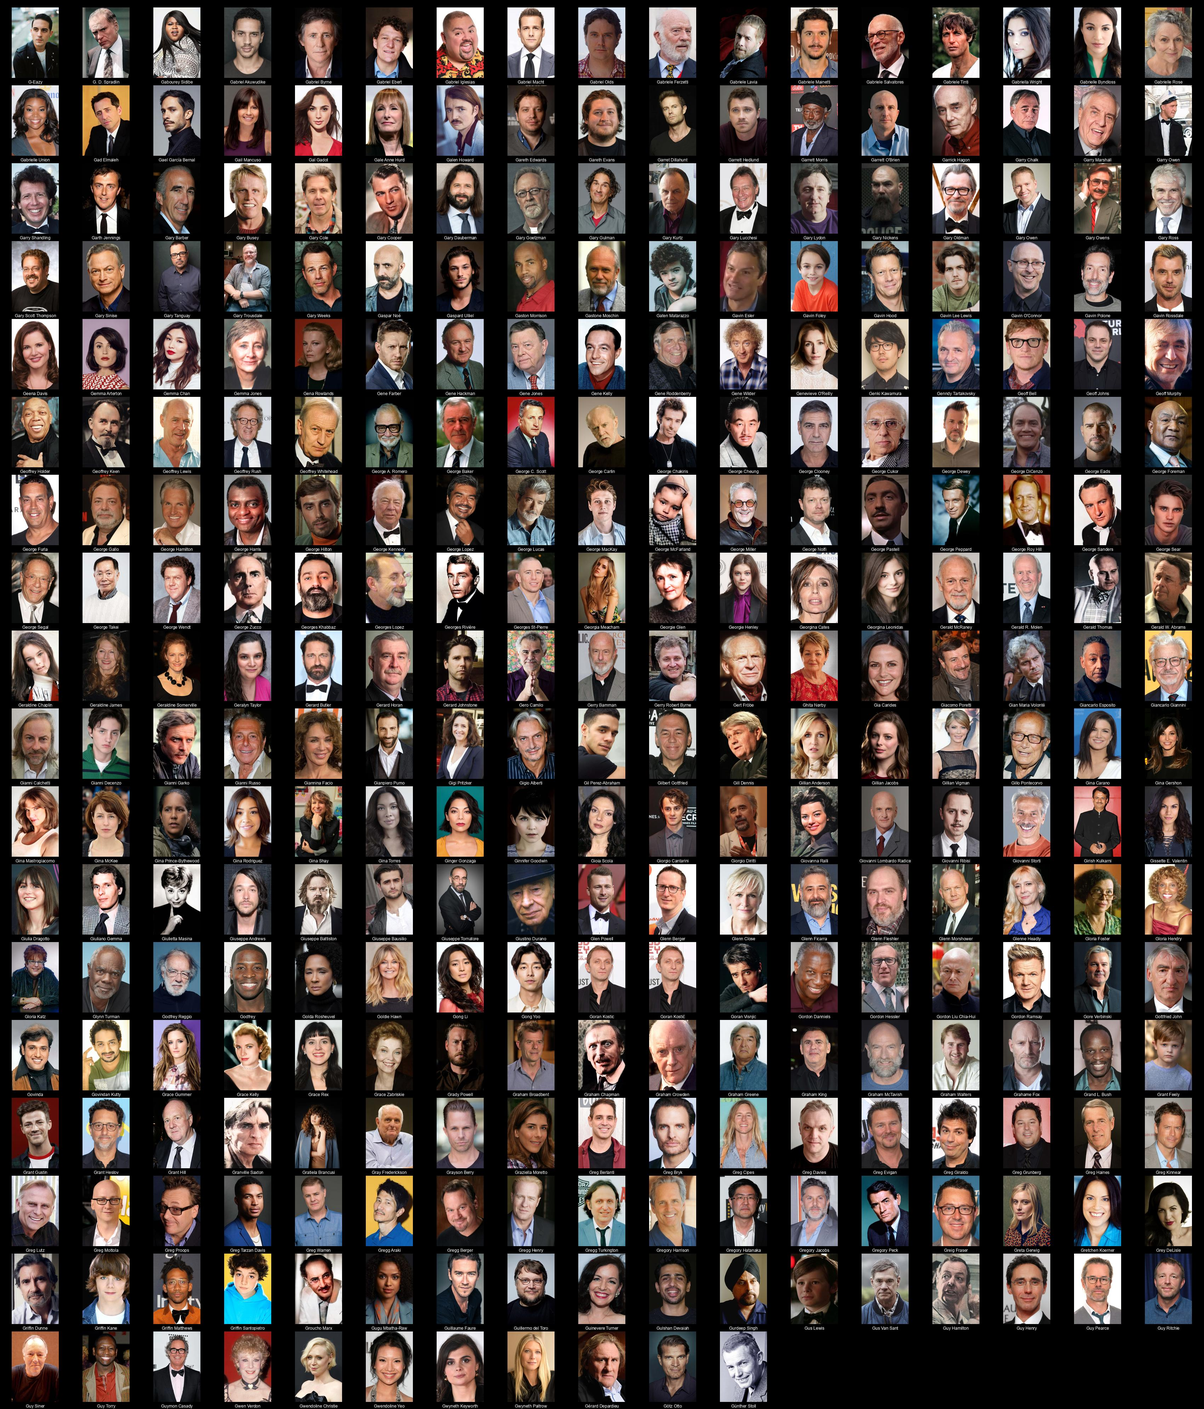
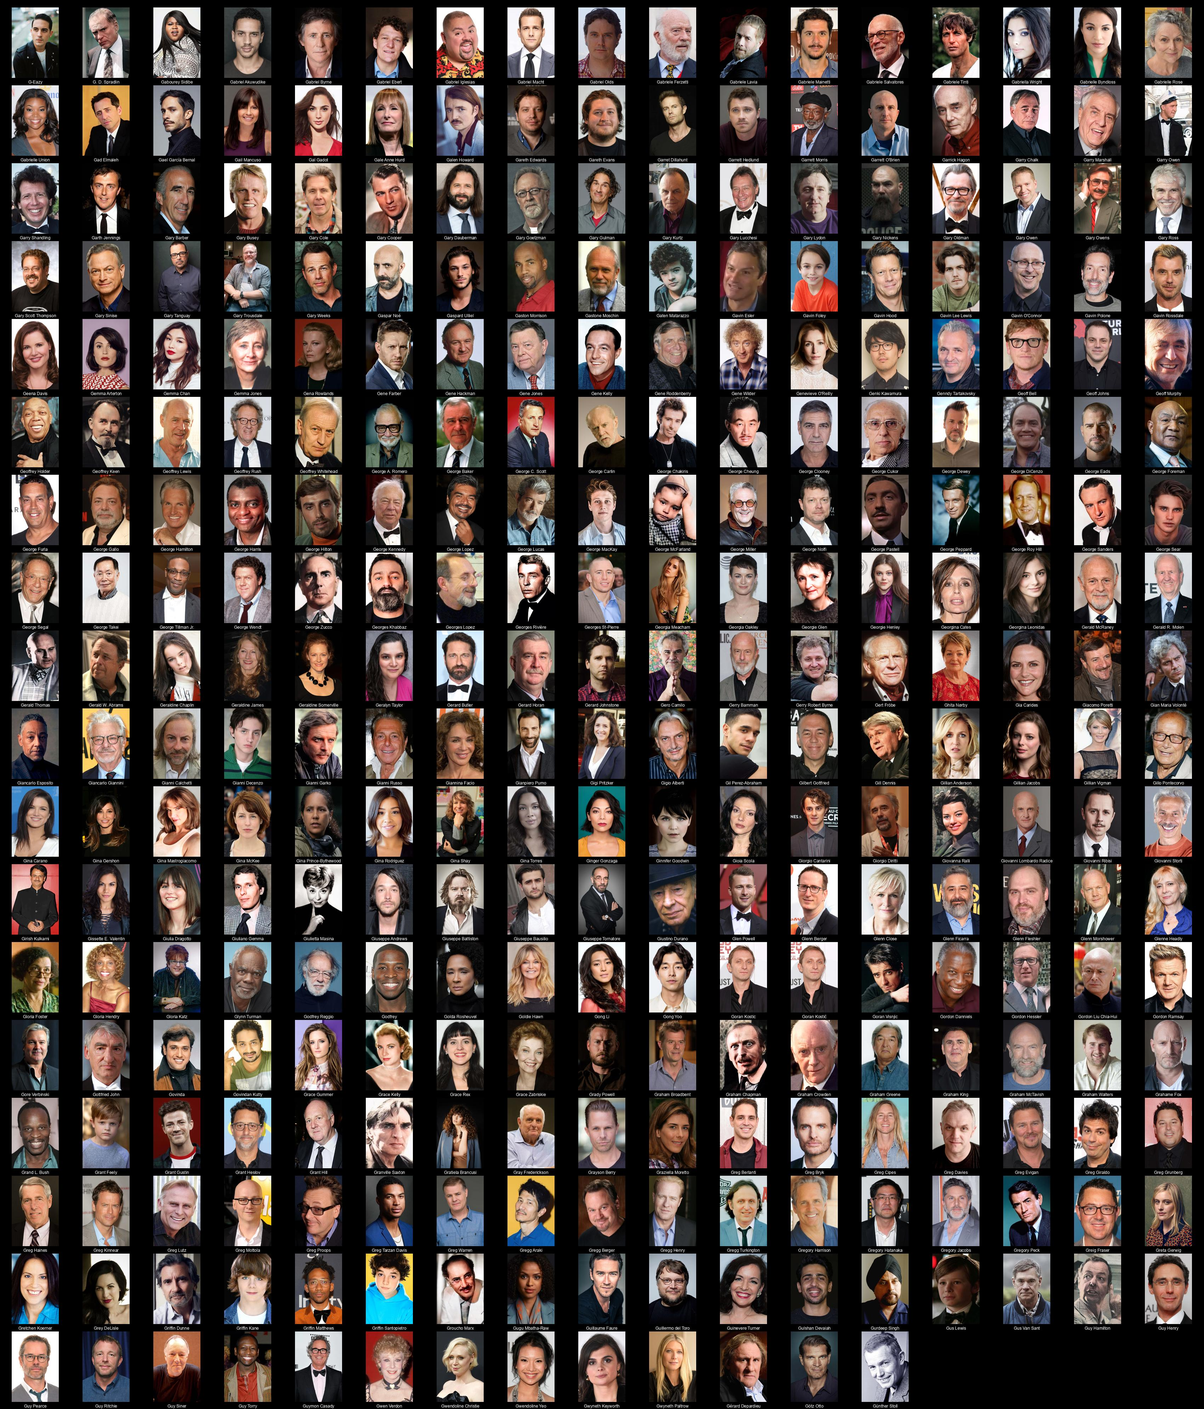
Readme Update

diff --git a/README.md b/README.md
@@ -1,15 +1,16 @@
-# Plex Meta Manager People - Original (8616 Images)
+# Plex Meta Manager People - Original (8627 Images)
 
 <details><summary><a href="'">' (1 Images)</a></summary>
 
 * ['Weird Al' Yankovic](https://raw.githubusercontent.com/meisnate12/Plex-Meta-Manager-People/master/'/Images/%27Weird%20Al%27%20Yankovic.jpg)
 </details>
-<details><summary><a href="A">A (710 Images)</a></summary>
+<details><summary><a href="A">A (711 Images)</a></summary>
 
 * [Aamir Khan](https://raw.githubusercontent.com/meisnate12/Plex-Meta-Manager-People/master/A/Images/Aamir%20Khan.jpg)
 * [Aanand L. Rai](https://raw.githubusercontent.com/meisnate12/Plex-Meta-Manager-People/master/A/Images/Aanand%20L.%20Rai.jpg)
 * [Aaron Ashmore](https://raw.githubusercontent.com/meisnate12/Plex-Meta-Manager-People/master/A/Images/Aaron%20Ashmore.jpg)
 * [Aaron Beelner](https://raw.githubusercontent.com/meisnate12/Plex-Meta-Manager-People/master/A/Images/Aaron%20Beelner.jpg)
+* [Aaron Burns](https://raw.githubusercontent.com/meisnate12/Plex-Meta-Manager-People/master/A/Images/Aaron%20Burns.jpg)
 * [Aaron Eckhart](https://raw.githubusercontent.com/meisnate12/Plex-Meta-Manager-People/master/A/Images/Aaron%20Eckhart.jpg)
 * [Aaron Haynes](https://raw.githubusercontent.com/meisnate12/Plex-Meta-Manager-People/master/A/Images/Aaron%20Haynes.jpg)
 * [Aaron Hilmer](https://raw.githubusercontent.com/meisnate12/Plex-Meta-Manager-People/master/A/Images/Aaron%20Hilmer.jpg)
@@ -2812,7 +2813,7 @@
 * [Fritz Lang](https://raw.githubusercontent.com/meisnate12/Plex-Meta-Manager-People/master/F/Images/Fritz%20Lang.jpg)
 * [Frédéric North](https://raw.githubusercontent.com/meisnate12/Plex-Meta-Manager-People/master/F/Images/Fr%C3%A9d%C3%A9ric%20North.jpg)
 </details>
-<details><summary><a href="G">G (300 Images)</a></summary>
+<details><summary><a href="G">G (302 Images)</a></summary>
 
 * [G-Eazy](https://raw.githubusercontent.com/meisnate12/Plex-Meta-Manager-People/master/G/Images/G-Eazy.jpg)
 * [G. D. Spradlin](https://raw.githubusercontent.com/meisnate12/Plex-Meta-Manager-People/master/G/Images/G.%20D.%20Spradlin.jpg)
@@ -2935,6 +2936,7 @@
 * [George Sear](https://raw.githubusercontent.com/meisnate12/Plex-Meta-Manager-People/master/G/Images/George%20Sear.jpg)
 * [George Segal](https://raw.githubusercontent.com/meisnate12/Plex-Meta-Manager-People/master/G/Images/George%20Segal.jpg)
 * [George Takei](https://raw.githubusercontent.com/meisnate12/Plex-Meta-Manager-People/master/G/Images/George%20Takei.jpg)
+* [George Tillman Jr.](https://raw.githubusercontent.com/meisnate12/Plex-Meta-Manager-People/master/G/Images/George%20Tillman%20Jr..jpg)
 * [George Wendt](https://raw.githubusercontent.com/meisnate12/Plex-Meta-Manager-People/master/G/Images/George%20Wendt.jpg)
 * [George Zucco](https://raw.githubusercontent.com/meisnate12/Plex-Meta-Manager-People/master/G/Images/George%20Zucco.jpg)
 * [Georges Khabbaz](https://raw.githubusercontent.com/meisnate12/Plex-Meta-Manager-People/master/G/Images/Georges%20Khabbaz.jpg)
@@ -2942,6 +2944,7 @@
 * [Georges Rivière](https://raw.githubusercontent.com/meisnate12/Plex-Meta-Manager-People/master/G/Images/Georges%20Rivi%C3%A8re.jpg)
 * [Georges St-Pierre](https://raw.githubusercontent.com/meisnate12/Plex-Meta-Manager-People/master/G/Images/Georges%20St-Pierre.jpg)
 * [Georgia Meacham](https://raw.githubusercontent.com/meisnate12/Plex-Meta-Manager-People/master/G/Images/Georgia%20Meacham.jpg)
+* [Georgia Oakley](https://raw.githubusercontent.com/meisnate12/Plex-Meta-Manager-People/master/G/Images/Georgia%20Oakley.jpg)
 * [Georgie Glen](https://raw.githubusercontent.com/meisnate12/Plex-Meta-Manager-People/master/G/Images/Georgie%20Glen.jpg)
 * [Georgie Henley](https://raw.githubusercontent.com/meisnate12/Plex-Meta-Manager-People/master/G/Images/Georgie%20Henley.jpg)
 * [Georgina Cates](https://raw.githubusercontent.com/meisnate12/Plex-Meta-Manager-People/master/G/Images/Georgina%20Cates.jpg)
@@ -3422,7 +3425,7 @@
 * [Izaac Wang](https://raw.githubusercontent.com/meisnate12/Plex-Meta-Manager-People/master/I/Images/Izaac%20Wang.jpg)
 * [Izabella Scorupco](https://raw.githubusercontent.com/meisnate12/Plex-Meta-Manager-People/master/I/Images/Izabella%20Scorupco.jpg)
 </details>
-<details><summary><a href="J">J (1067 Images)</a></summary>
+<details><summary><a href="J">J (1069 Images)</a></summary>
 
 * [J'Dvonte](https://raw.githubusercontent.com/meisnate12/Plex-Meta-Manager-People/master/J/Images/J%27Dvonte.jpg)
 * [J. A. Bayona](https://raw.githubusercontent.com/meisnate12/Plex-Meta-Manager-People/master/J/Images/J.%20A.%20Bayona.jpg)
@@ -3573,6 +3576,7 @@
 * [James Marsden](https://raw.githubusercontent.com/meisnate12/Plex-Meta-Manager-People/master/J/Images/James%20Marsden.jpg)
 * [James Marsters](https://raw.githubusercontent.com/meisnate12/Plex-Meta-Manager-People/master/J/Images/James%20Marsters.jpg)
 * [James Mason](https://raw.githubusercontent.com/meisnate12/Plex-Meta-Manager-People/master/J/Images/James%20Mason.jpg)
+* [James May](https://raw.githubusercontent.com/meisnate12/Plex-Meta-Manager-People/master/J/Images/James%20May.jpg)
 * [James McAvoy](https://raw.githubusercontent.com/meisnate12/Plex-Meta-Manager-People/master/J/Images/James%20McAvoy.jpg)
 * [James McGrath](https://raw.githubusercontent.com/meisnate12/Plex-Meta-Manager-People/master/J/Images/James%20McGrath.jpg)
 * [James McTeigue](https://raw.githubusercontent.com/meisnate12/Plex-Meta-Manager-People/master/J/Images/James%20McTeigue.jpg)
@@ -4485,6 +4489,7 @@
 * [Justin Roiland](https://raw.githubusercontent.com/meisnate12/Plex-Meta-Manager-People/master/J/Images/Justin%20Roiland.jpg)
 * [Justin Theroux](https://raw.githubusercontent.com/meisnate12/Plex-Meta-Manager-People/master/J/Images/Justin%20Theroux.jpg)
 * [Justin Timberlake](https://raw.githubusercontent.com/meisnate12/Plex-Meta-Manager-People/master/J/Images/Justin%20Timberlake.jpg)
+* [Justine Triet](https://raw.githubusercontent.com/meisnate12/Plex-Meta-Manager-People/master/J/Images/Justine%20Triet.jpg)
 * [Justyn Shippelt](https://raw.githubusercontent.com/meisnate12/Plex-Meta-Manager-People/master/J/Images/Justyn%20Shippelt.jpg)
 * [Jyoti Deshpande](https://raw.githubusercontent.com/meisnate12/Plex-Meta-Manager-People/master/J/Images/Jyoti%20Deshpande.jpg)
 * [Jóhannes Haukur Jóhannesson](https://raw.githubusercontent.com/meisnate12/Plex-Meta-Manager-People/master/J/Images/J%C3%B3hannes%20Haukur%20J%C3%B3hannesson.jpg)
@@ -4492,7 +4497,7 @@
 * [Jürgen Prochnow](https://raw.githubusercontent.com/meisnate12/Plex-Meta-Manager-People/master/J/Images/J%C3%BCrgen%20Prochnow.jpg)
 * [Jūzō Itami](https://raw.githubusercontent.com/meisnate12/Plex-Meta-Manager-People/master/J/Images/J%C5%ABz%C5%8D%20Itami.jpg)
 </details>
-<details><summary><a href="K">K (383 Images)</a></summary>
+<details><summary><a href="K">K (384 Images)</a></summary>
 
 * [K Raghavendra Rao](https://raw.githubusercontent.com/meisnate12/Plex-Meta-Manager-People/master/K/Images/K%20Raghavendra%20Rao.jpg)
 * [K.J. Apa](https://raw.githubusercontent.com/meisnate12/Plex-Meta-Manager-People/master/K/Images/K.J.%20Apa.jpg)
@@ -4672,6 +4677,7 @@
 * [Ken Hudson Campbell](https://raw.githubusercontent.com/meisnate12/Plex-Meta-Manager-People/master/K/Images/Ken%20Hudson%20Campbell.jpg)
 * [Ken Jeong](https://raw.githubusercontent.com/meisnate12/Plex-Meta-Manager-People/master/K/Images/Ken%20Jeong.jpg)
 * [Ken Kilpatrick](https://raw.githubusercontent.com/meisnate12/Plex-Meta-Manager-People/master/K/Images/Ken%20Kilpatrick.jpg)
+* [Ken Leung](https://raw.githubusercontent.com/meisnate12/Plex-Meta-Manager-People/master/K/Images/Ken%20Leung.jpg)
 * [Ken Loach](https://raw.githubusercontent.com/meisnate12/Plex-Meta-Manager-People/master/K/Images/Ken%20Loach.jpg)
 * [Ken Marino](https://raw.githubusercontent.com/meisnate12/Plex-Meta-Manager-People/master/K/Images/Ken%20Marino.jpg)
 * [Ken Page](https://raw.githubusercontent.com/meisnate12/Plex-Meta-Manager-People/master/K/Images/Ken%20Page.jpg)
@@ -5260,7 +5266,7 @@
 * [Léa Seydoux](https://raw.githubusercontent.com/meisnate12/Plex-Meta-Manager-People/master/L/Images/L%C3%A9a%20Seydoux.jpg)
 * [Lúcio Andrey](https://raw.githubusercontent.com/meisnate12/Plex-Meta-Manager-People/master/L/Images/L%C3%BAcio%20Andrey.jpg)
 </details>
-<details><summary><a href="M">M (785 Images)</a></summary>
+<details><summary><a href="M">M (787 Images)</a></summary>
 
 * [M'laah Kaur Singh](https://raw.githubusercontent.com/meisnate12/Plex-Meta-Manager-People/master/M/Images/M%27laah%20Kaur%20Singh.jpg)
 * [M. Emmet Walsh](https://raw.githubusercontent.com/meisnate12/Plex-Meta-Manager-People/master/M/Images/M.%20Emmet%20Walsh.jpg)
@@ -5600,6 +5606,7 @@
 * [Matt Helm](https://raw.githubusercontent.com/meisnate12/Plex-Meta-Manager-People/master/M/Images/Matt%20Helm.jpg)
 * [Matt Holloway](https://raw.githubusercontent.com/meisnate12/Plex-Meta-Manager-People/master/M/Images/Matt%20Holloway.jpg)
 * [Matt Hughes](https://raw.githubusercontent.com/meisnate12/Plex-Meta-Manager-People/master/M/Images/Matt%20Hughes.jpg)
+* [Matt Johnson](https://raw.githubusercontent.com/meisnate12/Plex-Meta-Manager-People/master/M/Images/Matt%20Johnson.jpg)
 * [Matt Jones](https://raw.githubusercontent.com/meisnate12/Plex-Meta-Manager-People/master/M/Images/Matt%20Jones.jpg)
 * [Matt Keeslar](https://raw.githubusercontent.com/meisnate12/Plex-Meta-Manager-People/master/M/Images/Matt%20Keeslar.jpg)
 * [Matt LeBlanc](https://raw.githubusercontent.com/meisnate12/Plex-Meta-Manager-People/master/M/Images/Matt%20LeBlanc.jpg)
@@ -5677,6 +5684,7 @@
 * [Maya Hawke](https://raw.githubusercontent.com/meisnate12/Plex-Meta-Manager-People/master/M/Images/Maya%20Hawke.jpg)
 * [Maya Rudolph](https://raw.githubusercontent.com/meisnate12/Plex-Meta-Manager-People/master/M/Images/Maya%20Rudolph.jpg)
 * [Maya Saroya](https://raw.githubusercontent.com/meisnate12/Plex-Meta-Manager-People/master/M/Images/Maya%20Saroya.jpg)
+* [Maynard James Keenan](https://raw.githubusercontent.com/meisnate12/Plex-Meta-Manager-People/master/M/Images/Maynard%20James%20Keenan.jpg)
 * [Mayumi Tanaka](https://raw.githubusercontent.com/meisnate12/Plex-Meta-Manager-People/master/M/Images/Mayumi%20Tanaka.jpg)
 * [Maz Jobrani](https://raw.githubusercontent.com/meisnate12/Plex-Meta-Manager-People/master/M/Images/Maz%20Jobrani.jpg)
 * [McG](https://raw.githubusercontent.com/meisnate12/Plex-Meta-Manager-People/master/M/Images/McG.jpg)
@@ -6728,7 +6736,7 @@
 * [Quinn Duffy](https://raw.githubusercontent.com/meisnate12/Plex-Meta-Manager-People/master/Q/Images/Quinn%20Duffy.jpg)
 * [Quinton Jackson](https://raw.githubusercontent.com/meisnate12/Plex-Meta-Manager-People/master/Q/Images/Quinton%20Jackson.jpg)
 </details>
-<details><summary><a href="R">R (557 Images)</a></summary>
+<details><summary><a href="R">R (560 Images)</a></summary>
 
 * [R. Lee Ermey](https://raw.githubusercontent.com/meisnate12/Plex-Meta-Manager-People/master/R/Images/R.%20Lee%20Ermey.jpg)
 * [R. Madhavan](https://raw.githubusercontent.com/meisnate12/Plex-Meta-Manager-People/master/R/Images/R.%20Madhavan.jpg)
@@ -7130,6 +7138,8 @@
 * [Roger Avary](https://raw.githubusercontent.com/meisnate12/Plex-Meta-Manager-People/master/R/Images/Roger%20Avary.jpg)
 * [Roger Birnbaum](https://raw.githubusercontent.com/meisnate12/Plex-Meta-Manager-People/master/R/Images/Roger%20Birnbaum.jpg)
 * [Roger Carel](https://raw.githubusercontent.com/meisnate12/Plex-Meta-Manager-People/master/R/Images/Roger%20Carel.jpg)
+* [Roger Christian](https://raw.githubusercontent.com/meisnate12/Plex-Meta-Manager-People/master/R/Images/Roger%20Christian.jpg)
+* [Roger Christiansen](https://raw.githubusercontent.com/meisnate12/Plex-Meta-Manager-People/master/R/Images/Roger%20Christiansen.jpg)
 * [Roger Corman](https://raw.githubusercontent.com/meisnate12/Plex-Meta-Manager-People/master/R/Images/Roger%20Corman.jpg)
 * [Roger Craig Smith](https://raw.githubusercontent.com/meisnate12/Plex-Meta-Manager-People/master/R/Images/Roger%20Craig%20Smith.jpg)
 * [Roger Cross](https://raw.githubusercontent.com/meisnate12/Plex-Meta-Manager-People/master/R/Images/Roger%20Cross.jpg)
@@ -7208,6 +7218,7 @@
 * [Ross McCall](https://raw.githubusercontent.com/meisnate12/Plex-Meta-Manager-People/master/R/Images/Ross%20McCall.jpg)
 * [Ross Noble](https://raw.githubusercontent.com/meisnate12/Plex-Meta-Manager-People/master/R/Images/Ross%20Noble.jpg)
 * [Rossella Falk](https://raw.githubusercontent.com/meisnate12/Plex-Meta-Manager-People/master/R/Images/Rossella%20Falk.jpg)
+* [Rosy McEwen](https://raw.githubusercontent.com/meisnate12/Plex-Meta-Manager-People/master/R/Images/Rosy%20McEwen.jpg)
 * [Rowan Atkinson](https://raw.githubusercontent.com/meisnate12/Plex-Meta-Manager-People/master/R/Images/Rowan%20Atkinson.jpg)
 * [Rowan Blanchard](https://raw.githubusercontent.com/meisnate12/Plex-Meta-Manager-People/master/R/Images/Rowan%20Blanchard.jpg)
 * [Rowan Joffe](https://raw.githubusercontent.com/meisnate12/Plex-Meta-Manager-People/master/R/Images/Rowan%20Joffe.jpg)

diff --git a/R/README.md b/R/README.md
@@ -1,4 +1,4 @@
-# Plex Meta Manager People - Original - R (557 Images)
+# Plex Meta Manager People - Original - R (560 Images)
 ![Grid](grid.jpg)
 
 * [R. Lee Ermey](https://raw.githubusercontent.com/meisnate12/Plex-Meta-Manager-People/master/R/Images/R.%20Lee%20Ermey.jpg)
@@ -401,6 +401,8 @@
 * [Roger Avary](https://raw.githubusercontent.com/meisnate12/Plex-Meta-Manager-People/master/R/Images/Roger%20Avary.jpg)
 * [Roger Birnbaum](https://raw.githubusercontent.com/meisnate12/Plex-Meta-Manager-People/master/R/Images/Roger%20Birnbaum.jpg)
 * [Roger Carel](https://raw.githubusercontent.com/meisnate12/Plex-Meta-Manager-People/master/R/Images/Roger%20Carel.jpg)
+* [Roger Christian](https://raw.githubusercontent.com/meisnate12/Plex-Meta-Manager-People/master/R/Images/Roger%20Christian.jpg)
+* [Roger Christiansen](https://raw.githubusercontent.com/meisnate12/Plex-Meta-Manager-People/master/R/Images/Roger%20Christiansen.jpg)
 * [Roger Corman](https://raw.githubusercontent.com/meisnate12/Plex-Meta-Manager-People/master/R/Images/Roger%20Corman.jpg)
 * [Roger Craig Smith](https://raw.githubusercontent.com/meisnate12/Plex-Meta-Manager-People/master/R/Images/Roger%20Craig%20Smith.jpg)
 * [Roger Cross](https://raw.githubusercontent.com/meisnate12/Plex-Meta-Manager-People/master/R/Images/Roger%20Cross.jpg)
@@ -479,6 +481,7 @@
 * [Ross McCall](https://raw.githubusercontent.com/meisnate12/Plex-Meta-Manager-People/master/R/Images/Ross%20McCall.jpg)
 * [Ross Noble](https://raw.githubusercontent.com/meisnate12/Plex-Meta-Manager-People/master/R/Images/Ross%20Noble.jpg)
 * [Rossella Falk](https://raw.githubusercontent.com/meisnate12/Plex-Meta-Manager-People/master/R/Images/Rossella%20Falk.jpg)
+* [Rosy McEwen](https://raw.githubusercontent.com/meisnate12/Plex-Meta-Manager-People/master/R/Images/Rosy%20McEwen.jpg)
 * [Rowan Atkinson](https://raw.githubusercontent.com/meisnate12/Plex-Meta-Manager-People/master/R/Images/Rowan%20Atkinson.jpg)
 * [Rowan Blanchard](https://raw.githubusercontent.com/meisnate12/Plex-Meta-Manager-People/master/R/Images/Rowan%20Blanchard.jpg)
 * [Rowan Joffe](https://raw.githubusercontent.com/meisnate12/Plex-Meta-Manager-People/master/R/Images/Rowan%20Joffe.jpg)

diff --git a/J/README.md b/J/README.md
@@ -1,4 +1,4 @@
-# Plex Meta Manager People - Original - J (1067 Images)
+# Plex Meta Manager People - Original - J (1069 Images)
 ![Grid](grid.jpg)
 
 * [J'Dvonte](https://raw.githubusercontent.com/meisnate12/Plex-Meta-Manager-People/master/J/Images/J%27Dvonte.jpg)
@@ -150,6 +150,7 @@
 * [James Marsden](https://raw.githubusercontent.com/meisnate12/Plex-Meta-Manager-People/master/J/Images/James%20Marsden.jpg)
 * [James Marsters](https://raw.githubusercontent.com/meisnate12/Plex-Meta-Manager-People/master/J/Images/James%20Marsters.jpg)
 * [James Mason](https://raw.githubusercontent.com/meisnate12/Plex-Meta-Manager-People/master/J/Images/James%20Mason.jpg)
+* [James May](https://raw.githubusercontent.com/meisnate12/Plex-Meta-Manager-People/master/J/Images/James%20May.jpg)
 * [James McAvoy](https://raw.githubusercontent.com/meisnate12/Plex-Meta-Manager-People/master/J/Images/James%20McAvoy.jpg)
 * [James McGrath](https://raw.githubusercontent.com/meisnate12/Plex-Meta-Manager-People/master/J/Images/James%20McGrath.jpg)
 * [James McTeigue](https://raw.githubusercontent.com/meisnate12/Plex-Meta-Manager-People/master/J/Images/James%20McTeigue.jpg)
@@ -1062,6 +1063,7 @@
 * [Justin Roiland](https://raw.githubusercontent.com/meisnate12/Plex-Meta-Manager-People/master/J/Images/Justin%20Roiland.jpg)
 * [Justin Theroux](https://raw.githubusercontent.com/meisnate12/Plex-Meta-Manager-People/master/J/Images/Justin%20Theroux.jpg)
 * [Justin Timberlake](https://raw.githubusercontent.com/meisnate12/Plex-Meta-Manager-People/master/J/Images/Justin%20Timberlake.jpg)
+* [Justine Triet](https://raw.githubusercontent.com/meisnate12/Plex-Meta-Manager-People/master/J/Images/Justine%20Triet.jpg)
 * [Justyn Shippelt](https://raw.githubusercontent.com/meisnate12/Plex-Meta-Manager-People/master/J/Images/Justyn%20Shippelt.jpg)
 * [Jyoti Deshpande](https://raw.githubusercontent.com/meisnate12/Plex-Meta-Manager-People/master/J/Images/Jyoti%20Deshpande.jpg)
 * [Jóhannes Haukur Jóhannesson](https://raw.githubusercontent.com/meisnate12/Plex-Meta-Manager-People/master/J/Images/J%C3%B3hannes%20Haukur%20J%C3%B3hannesson.jpg)

diff --git a/G/README.md b/G/README.md
@@ -1,4 +1,4 @@
-# Plex Meta Manager People - Original - G (300 Images)
+# Plex Meta Manager People - Original - G (302 Images)
 ![Grid](grid.jpg)
 
 * [G-Eazy](https://raw.githubusercontent.com/meisnate12/Plex-Meta-Manager-People/master/G/Images/G-Eazy.jpg)
@@ -122,6 +122,7 @@
 * [George Sear](https://raw.githubusercontent.com/meisnate12/Plex-Meta-Manager-People/master/G/Images/George%20Sear.jpg)
 * [George Segal](https://raw.githubusercontent.com/meisnate12/Plex-Meta-Manager-People/master/G/Images/George%20Segal.jpg)
 * [George Takei](https://raw.githubusercontent.com/meisnate12/Plex-Meta-Manager-People/master/G/Images/George%20Takei.jpg)
+* [George Tillman Jr.](https://raw.githubusercontent.com/meisnate12/Plex-Meta-Manager-People/master/G/Images/George%20Tillman%20Jr..jpg)
 * [George Wendt](https://raw.githubusercontent.com/meisnate12/Plex-Meta-Manager-People/master/G/Images/George%20Wendt.jpg)
 * [George Zucco](https://raw.githubusercontent.com/meisnate12/Plex-Meta-Manager-People/master/G/Images/George%20Zucco.jpg)
 * [Georges Khabbaz](https://raw.githubusercontent.com/meisnate12/Plex-Meta-Manager-People/master/G/Images/Georges%20Khabbaz.jpg)
@@ -129,6 +130,7 @@
 * [Georges Rivière](https://raw.githubusercontent.com/meisnate12/Plex-Meta-Manager-People/master/G/Images/Georges%20Rivi%C3%A8re.jpg)
 * [Georges St-Pierre](https://raw.githubusercontent.com/meisnate12/Plex-Meta-Manager-People/master/G/Images/Georges%20St-Pierre.jpg)
 * [Georgia Meacham](https://raw.githubusercontent.com/meisnate12/Plex-Meta-Manager-People/master/G/Images/Georgia%20Meacham.jpg)
+* [Georgia Oakley](https://raw.githubusercontent.com/meisnate12/Plex-Meta-Manager-People/master/G/Images/Georgia%20Oakley.jpg)
 * [Georgie Glen](https://raw.githubusercontent.com/meisnate12/Plex-Meta-Manager-People/master/G/Images/Georgie%20Glen.jpg)
 * [Georgie Henley](https://raw.githubusercontent.com/meisnate12/Plex-Meta-Manager-People/master/G/Images/Georgie%20Henley.jpg)
 * [Georgina Cates](https://raw.githubusercontent.com/meisnate12/Plex-Meta-Manager-People/master/G/Images/Georgina%20Cates.jpg)

diff --git a/M/README.md b/M/README.md
@@ -1,4 +1,4 @@
-# Plex Meta Manager People - Original - M (785 Images)
+# Plex Meta Manager People - Original - M (787 Images)
 ![Grid](grid.jpg)
 
 * [M'laah Kaur Singh](https://raw.githubusercontent.com/meisnate12/Plex-Meta-Manager-People/master/M/Images/M%27laah%20Kaur%20Singh.jpg)
@@ -339,6 +339,7 @@
 * [Matt Helm](https://raw.githubusercontent.com/meisnate12/Plex-Meta-Manager-People/master/M/Images/Matt%20Helm.jpg)
 * [Matt Holloway](https://raw.githubusercontent.com/meisnate12/Plex-Meta-Manager-People/master/M/Images/Matt%20Holloway.jpg)
 * [Matt Hughes](https://raw.githubusercontent.com/meisnate12/Plex-Meta-Manager-People/master/M/Images/Matt%20Hughes.jpg)
+* [Matt Johnson](https://raw.githubusercontent.com/meisnate12/Plex-Meta-Manager-People/master/M/Images/Matt%20Johnson.jpg)
 * [Matt Jones](https://raw.githubusercontent.com/meisnate12/Plex-Meta-Manager-People/master/M/Images/Matt%20Jones.jpg)
 * [Matt Keeslar](https://raw.githubusercontent.com/meisnate12/Plex-Meta-Manager-People/master/M/Images/Matt%20Keeslar.jpg)
 * [Matt LeBlanc](https://raw.githubusercontent.com/meisnate12/Plex-Meta-Manager-People/master/M/Images/Matt%20LeBlanc.jpg)
@@ -416,6 +417,7 @@
 * [Maya Hawke](https://raw.githubusercontent.com/meisnate12/Plex-Meta-Manager-People/master/M/Images/Maya%20Hawke.jpg)
 * [Maya Rudolph](https://raw.githubusercontent.com/meisnate12/Plex-Meta-Manager-People/master/M/Images/Maya%20Rudolph.jpg)
 * [Maya Saroya](https://raw.githubusercontent.com/meisnate12/Plex-Meta-Manager-People/master/M/Images/Maya%20Saroya.jpg)
+* [Maynard James Keenan](https://raw.githubusercontent.com/meisnate12/Plex-Meta-Manager-People/master/M/Images/Maynard%20James%20Keenan.jpg)
 * [Mayumi Tanaka](https://raw.githubusercontent.com/meisnate12/Plex-Meta-Manager-People/master/M/Images/Mayumi%20Tanaka.jpg)
 * [Maz Jobrani](https://raw.githubusercontent.com/meisnate12/Plex-Meta-Manager-People/master/M/Images/Maz%20Jobrani.jpg)
 * [McG](https://raw.githubusercontent.com/meisnate12/Plex-Meta-Manager-People/master/M/Images/McG.jpg)

diff --git a/K/README.md b/K/README.md
@@ -1,4 +1,4 @@
-# Plex Meta Manager People - Original - K (383 Images)
+# Plex Meta Manager People - Original - K (384 Images)
 ![Grid](grid.jpg)
 
 * [K Raghavendra Rao](https://raw.githubusercontent.com/meisnate12/Plex-Meta-Manager-People/master/K/Images/K%20Raghavendra%20Rao.jpg)
@@ -179,6 +179,7 @@
 * [Ken Hudson Campbell](https://raw.githubusercontent.com/meisnate12/Plex-Meta-Manager-People/master/K/Images/Ken%20Hudson%20Campbell.jpg)
 * [Ken Jeong](https://raw.githubusercontent.com/meisnate12/Plex-Meta-Manager-People/master/K/Images/Ken%20Jeong.jpg)
 * [Ken Kilpatrick](https://raw.githubusercontent.com/meisnate12/Plex-Meta-Manager-People/master/K/Images/Ken%20Kilpatrick.jpg)
+* [Ken Leung](https://raw.githubusercontent.com/meisnate12/Plex-Meta-Manager-People/master/K/Images/Ken%20Leung.jpg)
 * [Ken Loach](https://raw.githubusercontent.com/meisnate12/Plex-Meta-Manager-People/master/K/Images/Ken%20Loach.jpg)
 * [Ken Marino](https://raw.githubusercontent.com/meisnate12/Plex-Meta-Manager-People/master/K/Images/Ken%20Marino.jpg)
 * [Ken Page](https://raw.githubusercontent.com/meisnate12/Plex-Meta-Manager-People/master/K/Images/Ken%20Page.jpg)

diff --git a/A/README.md b/A/README.md
@@ -1,10 +1,11 @@
-# Plex Meta Manager People - Original - A (710 Images)
+# Plex Meta Manager People - Original - A (711 Images)
 ![Grid](grid.jpg)
 
 * [Aamir Khan](https://raw.githubusercontent.com/meisnate12/Plex-Meta-Manager-People/master/A/Images/Aamir%20Khan.jpg)
 * [Aanand L. Rai](https://raw.githubusercontent.com/meisnate12/Plex-Meta-Manager-People/master/A/Images/Aanand%20L.%20Rai.jpg)
 * [Aaron Ashmore](https://raw.githubusercontent.com/meisnate12/Plex-Meta-Manager-People/master/A/Images/Aaron%20Ashmore.jpg)
 * [Aaron Beelner](https://raw.githubusercontent.com/meisnate12/Plex-Meta-Manager-People/master/A/Images/Aaron%20Beelner.jpg)
+* [Aaron Burns](https://raw.githubusercontent.com/meisnate12/Plex-Meta-Manager-People/master/A/Images/Aaron%20Burns.jpg)
 * [Aaron Eckhart](https://raw.githubusercontent.com/meisnate12/Plex-Meta-Manager-People/master/A/Images/Aaron%20Eckhart.jpg)
 * [Aaron Haynes](https://raw.githubusercontent.com/meisnate12/Plex-Meta-Manager-People/master/A/Images/Aaron%20Haynes.jpg)
 * [Aaron Hilmer](https://raw.githubusercontent.com/meisnate12/Plex-Meta-Manager-People/master/A/Images/Aaron%20Hilmer.jpg)
